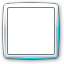
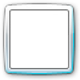
MeletonFX start menu: Teleport, 120 DPI account frame, Vista hover, fixed places column (#443)
Yukimi's review:
- Teleport (the planet switcher) replaces the planets: an All Programs entry, the right column
  under Workspaces, and the power menu where Vista has Switch User. The Planets folder is gone
  and no planet shows in the pinned / most used / Recent Items lists. Workspaces opens Data
  Management's workspace page.
- Opening the power arrow menu closed the start menu: click menus open on mousedown, their
  overlay takes the mouseup and the click lands on the page body. A click while a menu is open
  is no longer taken as a click outside.
- The account frame was Vista's 96 DPI size in a 120 DPI menu: now 80 px (picture 60 px),
  34 px over the top edge. A hovered place hides the frame and shows its own icon at the frame's
  size, as Vista does; left-pane rows leave the picture alone (checked in the VM).
- The places column is Vista's fixed 181 px again; names that do not fit get an ellipsis.
- Frosted was applied (the taskbar's wallpaper copy) but the fills let ~15 % through; Vista's
  top lets about half through (VM over a white window). Lighter tint and shade, live and frosted.

Changed region(s): [[0.0312, 0.0312, 0.9688, 0.9688], [0.25, 0.0312, 0.7188, 0.0625]]

diff --git a/public/scripts/comp/modalUtils.js b/public/scripts/comp/modalUtils.js
@@ -6156,8 +6156,10 @@ const startMenuLaunchables = [
     { launchId: 'explorer', icon: 'fas fa-folder-open', imageIcon: 'explorer.png', text: 'Cartograph', appMenu: true, action: () => { openExplorerApplet(); } },
     { launchId: 'remote-desktop', icon: 'fas fa-satellite-dish', imageIcon: 'remote_desktop.png', text: 'Remote Desktop', appMenu: true, action: () => { /* public/scripts/comp/desktop-apps/guacRemote.js */ openDesktopGuac(); } },
     { launchId: 'dovecote', icon: 'fas fa-envelope', imageIcon: 'dovecote.png', text: 'Dovecote', appMenu: true, action: () => { /* public/scripts/comp/desktop-apps/dovecote.js */ openDesktopDovecote(); } },
-    // Run-only launch (`planets`); the start menu entry is the Planets shell row below
-    { launchId: 'planet-switcher', icon: 'fas fa-planet-moon', imageIcon: 'planet.png', text: 'Planet Switcher', desktopOnly: true, appMenu: false, action: async () => { await openPlanetSwitcher(); } },
+    // Teleport (Yukimi, 2026-10-12): the planet switcher. All Programs, the places column under
+    // Workspaces, and the power menu where Vista has Switch User; the start menu lists no planets.
+    // Run: `planets`, `teleport`.
+    { launchId: 'planet-switcher', icon: 'fas fa-planet-moon', imageIcon: 'planet.png', text: 'Teleport', desktopOnly: true, appMenu: true, action: async () => { await openPlanetSwitcher(); } },
 ];
 
 /** Root start menu shell rows (folders + run). */
@@ -7054,6 +7056,7 @@ function getStartMenuPowerMenuItems() {
     const isAdmin = localStorage.getItem('userType') === 'admin';
     const desktop = isDesktopStartMenuEnvironment();
     const items = [
+        { id: 'teleport', text: 'Teleport', desktopOnly: true, action: () => runTeleportDirect() },
         { id: 'logout', text: 'Log Off', action: () => runLogoutDirect() },
         { id: 'lock', text: 'Lock', desktopOnly: true, action: () => runClientLockDirect() },
         { separator: true },
@@ -7064,6 +7067,12 @@ function getStartMenuPowerMenuItems() {
         { id: 'restart-dss', text: 'Restart Server', adminOnly: true, action: () => runRestartDssDirect() },
     ].filter((item) => !(item.desktopOnly && !desktop) && !(item.adminOnly && !isAdmin));
     return items.filter((item, i) => !item.separator || (i > 0 && i < items.length - 1 && !items[i - 1].separator));
+}
+
+/** Teleport (the planet switcher) from the power menu; the switcher closes the start menu itself. */
+function runTeleportDirect() {
+    const item = findStartMenuLaunchableById('planet-switcher');
+    if (item) launchStartMenuItem(item);
 }
 
 /** The arrow next to Lock: a click menu (contextMenu.js), rebuilt each time the menu is built. */
@@ -7095,6 +7104,9 @@ function handleStartMenuOutsideClick(e) {
     if (startMenu.contains(e.target)) return;
     if (e.target.closest('#taskbarStartBtn')) return;
     if (e.target.closest('.context-menu, .context-menu-overlay')) return;
+    // A click menu opened from inside (power arrow, Recent Items) opens on mousedown; its overlay
+    // takes the mouseup, so the click lands on the page body. Not a click outside.
+    if (typeof contextMenu !== 'undefined' && contextMenu && contextMenu.isOpen) return;
     closeStartMenu();
 }
 
@@ -7224,6 +7236,11 @@ function isStartMenuItemLaunchable(item) {
     return Boolean(item && isStartMenuEntryEnabled(item) && !(item.desktopOnly && !isDesktopStartMenuEnvironment()));
 }
 
+/** The start menu shows no planets (Teleport opens the switcher), even pinned or launched ones. */
+function isStartMenuListedItem(item) {
+    return isStartMenuItemLaunchable(item) && !isStartMenuPlanetLaunchId(item.launchId);
+}
+
 function getStartMenuFrequentItems() {
     const activity = readStartMenuActivity();
     const pinned = new Set(getStartMenuPinnedLaunchIds());
@@ -7233,7 +7250,7 @@ function getStartMenuFrequentItems() {
         if (out.length >= START_MENU_FREQUENT_LIMIT || seen.has(launchId) || pinned.has(launchId)) return;
         if (activity[launchId] && activity[launchId].hidden) return;
         const item = findStartMenuLaunchableById(launchId);
-        if (!isStartMenuItemLaunchable(item)) return;
+        if (!isStartMenuListedItem(item)) return;
         seen.add(launchId);
         out.push({ ...item, frequent: true });
     };
@@ -7251,7 +7268,7 @@ function getStartMenuRecentItems() {
         .filter((id) => (activity[id].t || 0) > 0)
         .sort((a, b) => activity[b].t - activity[a].t)
         .map((id) => findStartMenuLaunchableById(id))
-        .filter(isStartMenuItemLaunchable)
+        .filter(isStartMenuListedItem)
         .slice(0, START_MENU_RECENT_LIMIT);
 }
 
@@ -7278,13 +7295,7 @@ function getStartMenuAccessoriesItems() {
         .sort(byStartMenuLabel);
 }
 
-function getStartMenuPlanetsItems() {
-    const switcher = findStartMenuLaunchableById('planet-switcher');
-    return (switcher ? [switcher] : [])
-        .concat(buildPlanetsSubmenuItems().filter((item) => typeof item.action === 'function'));
-}
-
-/** Apps by name (or in the organizer's order), then the folders, like Vista's All Programs. */
+/** Apps by name (or in the organizer's order, Teleport among them), then the folders, like Vista's All Programs. */
 function getStartMenuProgramsTree() {
     const custom = Array.isArray(startMenuCustomLayout) && startMenuCustomLayout.length > 0;
     const entries = getOrganizedAllAppsMenuItems().map((item) => (item.isCustomFolder
@@ -7292,9 +7303,6 @@ function getStartMenuProgramsTree() {
         : item));
     if (!custom) entries.sort(byStartMenuLabel);
     entries.push({ folder: true, folderId: 'accessories', text: 'Accessories', children: getStartMenuAccessoriesItems() });
-    if (isDesktopStartMenuEnvironment()) {
-        entries.push({ folder: true, folderId: 'planets', text: 'Planets', children: getStartMenuPlanetsItems() });
-    }
     return entries.filter((entry) => !entry.folder || entry.children.length > 0);
 }
 
@@ -7318,7 +7326,7 @@ function toggleStartMenuFolder(folderId) {
 
 // ---- rows ----
 
-/** The 48 px picture a row puts in the account frame while hovered (Vista swaps it the same way). */
+/** The icon a hovered place shows instead of the account frame (Vista: the frame goes, the item's icon fills its spot). */
 function startMenuItemPictureUrl(item) {
     if (!item) return '';
     if (item.image) return item.image;
@@ -7390,7 +7398,6 @@ function createStartMenuListRow(item, kind, options = {}) {
         });
         if (item.launchId && kind !== 'result') attachStartMenuItemContextMenu(row, item);
     }
-    wireStartMenuTileHover(row, item);
     return row;
 }
 
@@ -7402,7 +7409,7 @@ function createStartMenuSeparator(className = 'start-menu-separator') {
 }
 
 function renderStartMenuHome(list) {
-    const pinned = getStartMenuPinnedItems();
+    const pinned = getStartMenuPinnedItems().filter(isStartMenuListedItem);
     pinned.forEach((item) => list.appendChild(createStartMenuListRow(item, 'pinned')));
     const frequent = getStartMenuFrequentItems();
     if (pinned.length && frequent.length) list.appendChild(createStartMenuSeparator());
@@ -7567,7 +7574,8 @@ function getStartMenuPlaces() {
         { id: 'cartograph', text: 'Cartograph', imageIcon: 'explorer.png', action: launch('explorer') },
         { id: 'gallery', text: 'Gallery', imageIcon: 'art.png', desktopOnly: true, action: launch('workspace') },
         { id: 'notion', text: 'Notion', imageIcon: 'notebook.png', action: launch('notebook') },
-        { id: 'workspaces', text: 'Workspaces', imageIcon: 'planet.png', desktopOnly: true, action: () => openPlanetSwitcher() },
+        { id: 'workspaces', text: 'Workspaces', imageIcon: 'planet.png', action: () => showWorkspaceManagementModal() },
+        { id: 'teleport', text: 'Teleport', imageIcon: 'planet.png', desktopOnly: true, action: launch('planet-switcher') },
         { separator: true },
         { id: 'recent', text: 'Recent Items', flyout: true },
         { id: 'network', text: 'Network and Server Center', image: '/static_images/melaton/net-globe.png', action: controlPanel('network') },
@@ -7622,6 +7630,7 @@ function renderStartMenuPlaces() {
         row.setAttribute('role', 'menuitem');
         row.tabIndex = -1;
         row.textContent = place.text;
+        row.title = place.text;
         if (place.flyout) {
             attachStartMenuRecentItemsMenu(row);
         } else {

diff --git a/public/css/desktop-shell.css b/public/css/desktop-shell.css
@@ -1463,6 +1463,11 @@ body.desktop-mode:has(#desktopTaskbar .taskbar-start-button.orb) .taskbar-window
 #startMenu.start-menu {
     --start-menu-h: min(635px, calc(100vh - var(--taskbar-height, 35px) - 48px));
     --start-menu-pane-w: 318px;
+    --start-menu-places-w: 181px;
+    /* Vista's glass lets about half the backdrop through at the top (measured over a white
+       window in the VM: #717376 there), darkening to near black at the power buttons */
+    --start-menu-shade: linear-gradient(to bottom, hsl(0 0% 0% / 18%) 0%, hsl(0 0% 0% / 55%) 38%, hsl(210 20% 2% / 88%) 72%, hsl(210 30% 2% / 95%) 100%);
+    --start-menu-tint: color-mix(in srgb, var(--glass-windows-bg, hsl(0 0% 20% / 75%)) 55%, transparent);
     --start-menu-pad: 7px;
     --start-menu-font: 'Segoe UI', Tahoma, var(--font-family, sans-serif);
     position: fixed;
@@ -1474,8 +1479,8 @@ body.desktop-mode:has(#desktopTaskbar .taskbar-start-button.orb) .taskbar-window
     max-width: 100vw;
     height: var(--start-menu-h);
     display: grid;
-    /* the places column is as wide as its longest name, like Vista's */
-    grid-template-columns: var(--start-menu-pane-w) minmax(181px, max-content);
+    /* Vista's fixed places column; a name that does not fit gets an ellipsis */
+    grid-template-columns: var(--start-menu-pane-w) var(--start-menu-places-w);
     grid-template-rows: minmax(0, 1fr) 30px;
     grid-template-areas:
         "pane places"
@@ -1486,9 +1491,9 @@ body.desktop-mode:has(#desktopTaskbar .taskbar-start-button.orb) .taskbar-window
     /* Vista: the frame glass darkening to near black toward the power buttons, the Aero
        streaks pinned to the screen (aero-glass.css) */
     background:
-        linear-gradient(to bottom, hsl(0 0% 0% / 42%) 0%, hsl(0 0% 0% / 78%) 38%, hsl(210 20% 2% / 94%) 72%, hsl(210 30% 2% / 97%) 100%),
+        var(--start-menu-shade),
         var(--aero-streaks, none),
-        linear-gradient(var(--glass-windows-bg, hsl(0 0% 20% / 75%)), var(--glass-windows-bg, hsl(0 0% 20% / 75%)));
+        linear-gradient(var(--start-menu-tint), var(--start-menu-tint));
     background-size:
         100% 100%,
         var(--aero-vw, 100vw) var(--aero-vh, 100vh),
@@ -1517,9 +1522,9 @@ html[data-glass="frosted"] #startMenu.start-menu {
     -webkit-backdrop-filter: none;
     backdrop-filter: none;
     background:
-        linear-gradient(to bottom, hsl(0 0% 0% / 42%) 0%, hsl(0 0% 0% / 78%) 38%, hsl(210 20% 2% / 94%) 72%, hsl(210 30% 2% / 97%) 100%),
+        var(--start-menu-shade),
         var(--aero-streaks, none),
-        linear-gradient(var(--glass-windows-bg, hsl(0 0% 20% / 75%)), var(--glass-windows-bg, hsl(0 0% 20% / 75%))),
+        linear-gradient(var(--start-menu-tint), var(--start-menu-tint)),
         var(--aero-wallpaper-light, var(--aero-wallpaper, none));
     background-size:
         100% 100%,
@@ -1781,7 +1786,8 @@ html[data-glass="basic"] #startMenu.start-menu {
     display: flex;
     flex-direction: column;
     min-height: 0;
-    padding: 39px 7px 0 6px;
+    /* the first row sits 15 px under the account frame (Vista, 12 px at 96 DPI) */
+    padding: 46px 7px 0 6px;
     overflow: hidden;
 }
 
@@ -1789,14 +1795,14 @@ html[data-glass="basic"] #startMenu.start-menu {
     position: relative;
     flex: none;
     box-sizing: border-box;
-    display: flex;
-    align-items: center;
+    display: block;
     height: 42px;
     margin: 1px 0;
     padding: 0 18px 0 10px;
     border: 1px solid transparent;
     border-radius: 3px;
     color: #fff;
+    line-height: 40px;
     white-space: nowrap;
     overflow: hidden;
     text-overflow: ellipsis;
@@ -1834,14 +1840,17 @@ html[data-glass="basic"] #startMenu.start-menu {
     background: linear-gradient(to bottom, hsl(0 0% 0% / 50%) 0 1px, hsl(0 0% 100% / 14%) 1px 2px);
 }
 
-/* ---- the account picture over the top edge ---- */
+/* ---- the account picture over the top edge ----
+   Vista's start menu frame (authui.dll 11201) at 120 DPI: 80 px, the picture 60 px in its
+   opening, overhanging the menu top by 34 px. A hovered place hides the frame and shows its
+   own icon at the frame's size instead (Vista; left-pane rows leave the picture alone). */
 
 .start-menu-user-tile {
     position: absolute;
-    top: -27px;
-    left: calc(var(--start-menu-pad) + var(--start-menu-pane-w) + (100% - var(--start-menu-pad) - var(--start-menu-pane-w) - 64px) / 2);
-    width: 64px;
-    height: 64px;
+    top: -34px;
+    left: calc(var(--start-menu-pad) + var(--start-menu-pane-w) + (100% - var(--start-menu-pad) - var(--start-menu-pane-w) - 80px) / 2);
+    width: 80px;
+    height: 80px;
     pointer-events: none;
 }
 
@@ -1849,23 +1858,27 @@ html[data-glass="basic"] #startMenu.start-menu {
     content: '';
     position: absolute;
     inset: 0;
-    background: url('/static_images/vista-start/user-frame.png') no-repeat;
+    background: url('/static_images/vista-start/user-frame.png') no-repeat 0 0 / 80px 80px;
+    transition: opacity 0.2s ease;
 }
 
 .start-menu-user-tile img {
     position: absolute;
-    left: 7px;
-    top: 7px;
-    width: 48px;
-    height: 48px;
     transition: opacity 0.2s ease;
 }
 
 .start-menu-user-tile-picture {
+    left: 9px;
+    top: 9px;
+    width: 60px;
+    height: 60px;
     object-fit: cover;
 }
 
 .start-menu-user-tile-item {
+    inset: 0;
+    width: 80px;
+    height: 80px;
     object-fit: contain;
     opacity: 0;
 }
@@ -1874,7 +1887,8 @@ html[data-glass="basic"] #startMenu.start-menu {
     opacity: 1;
 }
 
-.start-menu-user-tile.show-item .start-menu-user-tile-picture {
+.start-menu-user-tile.show-item .start-menu-user-tile-picture,
+.start-menu-user-tile.show-item::after {
     opacity: 0;
 }
 

diff --git a/scripts/test-vista-start-menu.js b/scripts/test-vista-start-menu.js
@@ -24,7 +24,7 @@ const read = (p) => fs.readFileSync(path.join(ROOT, p), 'utf8');
 
     // art: Vista's 120 DPI cells, three states stacked (rest, hover, pressed)
     const art = 'public/static_images/vista-start';
-    const sizes = { 'shutdown.png': [70, 90], 'lock.png': [70, 90], 'arrow.png': [28, 90], 'user-frame.png': [64, 64], 'folder-20.png': [20, 20], 'folder-40.png': [40, 40] };
+    const sizes = { 'shutdown.png': [70, 90], 'lock.png': [70, 90], 'arrow.png': [28, 90], 'user-frame.png': [80, 80], 'folder-20.png': [20, 20], 'folder-40.png': [40, 40] };
     for (const [file, [w, h]] of Object.entries(sizes)) {
         const meta = await sharp(path.join(ROOT, art, file)).metadata();
         assert.deepStrictEqual([meta.width, meta.height], [w, h], `${file} is ${w}x${h}`);
@@ -34,20 +34,22 @@ const read = (p) => fs.readFileSync(path.join(ROOT, p), 'utf8');
         assert.ok(fs.existsSync(path.join(ROOT, art, ref[1])), `CSS art ${ref[1]} exists`);
     }
     assert.ok(/grid-template-areas:\s*"pane places"\s*"search power"/.test(css), 'two columns over search + power');
-    assert.ok(css.includes('minmax(181px, max-content)'), 'places column sizes to its longest name');
+    assert.ok(css.includes('--start-menu-places-w: 181px') && /\.start-menu-place \{[^}]*text-overflow: ellipsis/.test(css), 'fixed places column, long names get an ellipsis');
     assert.ok(/html\[data-glass="frosted"\] #startMenu\.start-menu/.test(css) && /html\[data-glass="basic"\] #startMenu\.start-menu/.test(css), 'frosted and basic glass');
     assert.ok(!/\.start-menu-popout\b/.test(css), 'old pop-out styles removed');
 
     // behaviour hooks
     const js = read('public/scripts/comp/modalUtils.js');
     assert.ok(/folderId: 'accessories', text: 'Accessories'/.test(js), 'Toolbox is the Accessories folder in All Programs');
+    assert.ok(!/folderId: 'planets'/.test(js) && js.includes("text: 'Teleport', desktopOnly: true, appMenu: true"), 'no Planets folder; Teleport is an app');
+    assert.ok(js.includes('contextMenu && contextMenu.isOpen) return;'), 'opening a click menu does not close the start menu');
     assert.ok(/startMenuShellConfig\.find\(\(item\) => item\.launchId === 'run'\)/.test(js), 'Run lives in Accessories');
     assert.ok(/searchRunCommands\(query,/.test(js), 'Start Search uses the Run index');
     assert.ok(/execute: \(\) => \{\s*recordStartMenuLaunch\(item\.launchId\);/.test(js), 'Run launches count toward the history');
-    for (const text of ['Log Off', 'Lock', 'Restart', 'Shut Down', 'Restart Server']) {
+    for (const text of ['Teleport', 'Log Off', 'Lock', 'Restart', 'Shut Down', 'Restart Server']) {
         assert.ok(js.includes(`text: '${text}'`), `power menu has ${text}`);
     }
-    for (const text of ['Cartograph', 'Gallery', 'Notion', 'Workspaces', 'Recent Items', 'Network and Server Center', 'Control Panel', 'Remote Access', 'Help and Support']) {
+    for (const text of ['Cartograph', 'Gallery', 'Notion', 'Workspaces', 'Recent Items', 'Teleport', 'Network and Server Center', 'Control Panel', 'Remote Access', 'Help and Support']) {
         assert.ok(js.includes(`text: '${text}'`), `places column has ${text}`);
     }
     assert.ok(js.includes("text: 'Remove from this list'") && js.includes("text: 'Pin to Start Menu'"), 'Vista row menu wording');

diff --git a/scripts/build-vista-start-menu-art.js b/scripts/build-vista-start-menu-art.js
@@ -10,6 +10,7 @@
  *   arrow-glyph.png                            aero.msstyles IMAGE 713: the power menu arrow, 3 x 9 px
  *                                              states (rest, hover, pressed)
  *   user-frame.png                             authui.dll IMAGE 11201: the start menu account frame
+ *                                              (Vista ships it at 96 DPI only and scales it: 64 -> 80 px here)
  *
  * Each button becomes one sprite with its three states stacked (rest, hover, pressed), so CSS
  * moves background-position only. The arrow button Vista draws next to Lock is not in the strip;
@@ -110,7 +111,6 @@ async function main() {
 
     // the rest are used as they are
     const copies = {
-        'user-frame.png': 'user-frame.png',
         'usertile-kitten.png': 'usertile-kitten.png',
         'search-glyph.png': 'search-glyph.png',
         'programs-arrow-a.png': 'programs-arrow.png',
@@ -119,7 +119,9 @@ async function main() {
         'folder-40.png': 'folder-40.png'
     };
     for (const [from, to] of Object.entries(copies)) fs.copyFileSync(path.join(PARTS, from), path.join(OUT, to));
-    console.log(`wrote ${path.relative(ROOT, OUT)}: shutdown, lock, arrow sprites + ${Object.keys(copies).length} parts`);
+    // the account frame at 120 DPI (the menu's scale): 64 px x 1.25, the picture opening 48 -> 60 px
+    await sharp(path.join(PARTS, 'user-frame.png')).resize(80, 80, { kernel: 'lanczos3' }).png({ compressionLevel: 9 }).toFile(path.join(OUT, 'user-frame.png'));
+    console.log(`wrote ${path.relative(ROOT, OUT)}: shutdown, lock, arrow sprites + ${Object.keys(copies).length} parts + the 120 DPI account frame`);
 }
 
 main().catch((err) => {

diff --git a/docs/client-api/client-only-features.md b/docs/client-api/client-only-features.md
@@ -14,8 +14,8 @@ Custom Android/Linux clients may omit these or reimplement selectively.
 | Desktop windowing | `public/scripts/comp/focusOverlayManager.js`, workspace window positions | Positions synced via WS `workspace_update_window_positions` |
 | System tray / menu bar | `public/scripts/comp/systemTrayManager.js`, `mainMenuManager.js` | OS integration only on supported shells |
 | Keyboard shortcuts | `public/scripts/comp/keyboardShortcuts.js`, `modalKeyboardRegistry.js` | Local binding |
-| Start menu (Vista) | `public/scripts/comp/modalUtils.js` (`buildStartMenu`, Yozora #443), markup `#startMenu` in `public/app.html`, `public/css/desktop-shell.css`, art `public/static_images/vista-start/` (`scripts/build-vista-start-menu-art.js`, from Vista's explorer.exe / aero.msstyles / authui.dll pixels) | Vista's two columns at 120 DPI. Left, a white pane: pinned apps (server `desktop.startMenuPinned`), the most used apps (launch counts from the start menu, Start Search and Run in localStorage `startMenuActivity`, this browser only; "Remove from this list" hides one until launched again), All Programs swapping the pane in place (apps in the organizer's order or by name, then the Accessories folder = the old Toolbox plus Run, Planets, and organizer folders, opening in place; right-click All Programs = Organize Start Menu), and Start Search on the Run index (`searchRunCommands`; "See all results" opens Run with the query). Right, on the glass: the account picture (hovered items swap their icon in, like Vista), Cartograph, Gallery, Notion, Workspaces, Recent Items (click menu of the latest launches), Network and Server Center, Control Panel, Remote Access, Help and Support, then the power (shut down), lock and arrow buttons (Log Off, Lock, Restart, Shut Down, Leave Desktop Mode, Restart Server for admins). Typing goes to Start Search; arrows and Enter move through the pane; Esc clears, goes back, then closes. |
-| Planet switcher | `public/scripts/comp/planetSwitcher.js`, `public/css/planet-switcher.css` (lazy feature `planet_switcher`) | Ring of workspace bubbles over a canvas star field. Opening animates only `scale` + `opacity` (Web Animations API, transform-origin at the viewport centre) on the desktop layers and open windows, so window sizes never change; CSS animations underneath are paused via `body.planet-switcher-active`. Bubble slideshows come from WS `workspace_preview_samples`: a server-baked sprite strip per workspace (`/planet-sheets/`, one texture, slides by `background-position`), else client-baked canvas tiles from `createImageBitmap` sources, else the loaded gallery / wallpaper. Idle motion is compositor-only (per-planet WAAPI wobble + CSS sway); the star canvas runs at half resolution and 24fps while browsing. Bubbles are glass spheres (static pseudo-element shading) with a Flip 3D style mirrored reflection canvas repainted only on swaps; the desktop zoom-out tilts (rotateX) like Flip 3D; text never sits on a scaled layer. Loading completes before the zoom back: `workspaceSwitchComplete` + `workspaceChanged` events from `workspaceUtils.js`; the workspace progress modal is suppressed while the switcher is open. Esc / Cancel reverses the opening animation at ~0.5s. Only launched from the start menu (Workspaces in the right column, All Programs > Planets > Planet Switcher), Run `planets`, or `Ctrl+Alt+P`; direct `setActiveWorkspace` paths never use it. |
+| Start menu (Vista) | `public/scripts/comp/modalUtils.js` (`buildStartMenu`, Yozora #443), markup `#startMenu` in `public/app.html`, `public/css/desktop-shell.css`, art `public/static_images/vista-start/` (`scripts/build-vista-start-menu-art.js`, from Vista's explorer.exe / aero.msstyles / authui.dll pixels) | Vista's two columns at 120 DPI. Left, a white pane: pinned apps (server `desktop.startMenuPinned`), the most used apps (launch counts from the start menu, Start Search and Run in localStorage `startMenuActivity`, this browser only; "Remove from this list" hides one until launched again), All Programs swapping the pane in place (apps in the organizer's order or by name, Teleport among them, then the Accessories folder = the old Toolbox plus Run, and organizer folders, opening in place; no planets anywhere in the menu; right-click All Programs = Organize Start Menu), and Start Search on the Run index (`searchRunCommands`; "See all results" opens Run with the query). Right, on the glass, a fixed 181 px column (long names get an ellipsis): the account picture (Vista's frame at 120 DPI, 80 px; a hovered place hides it and shows its own icon at that size, like Vista), Cartograph, Gallery, Notion, Workspaces (Data Management's workspace page), Teleport (the planet switcher), Recent Items (click menu of the latest launches), Network and Server Center, Control Panel, Remote Access, Help and Support, then the power (shut down), lock and arrow buttons (Teleport where Vista has Switch User, Log Off, Lock, Restart, Shut Down, Leave Desktop Mode, Restart Server for admins; opening that menu leaves the start menu open). Typing goes to Start Search; arrows and Enter move through the pane; Esc clears, goes back, then closes. |
+| Planet switcher | `public/scripts/comp/planetSwitcher.js`, `public/css/planet-switcher.css` (lazy feature `planet_switcher`) | Ring of workspace bubbles over a canvas star field. Opening animates only `scale` + `opacity` (Web Animations API, transform-origin at the viewport centre) on the desktop layers and open windows, so window sizes never change; CSS animations underneath are paused via `body.planet-switcher-active`. Bubble slideshows come from WS `workspace_preview_samples`: a server-baked sprite strip per workspace (`/planet-sheets/`, one texture, slides by `background-position`), else client-baked canvas tiles from `createImageBitmap` sources, else the loaded gallery / wallpaper. Idle motion is compositor-only (per-planet WAAPI wobble + CSS sway); the star canvas runs at half resolution and 24fps while browsing. Bubbles are glass spheres (static pseudo-element shading) with a Flip 3D style mirrored reflection canvas repainted only on swaps; the desktop zoom-out tilts (rotateX) like Flip 3D; text never sits on a scaled layer. Loading completes before the zoom back: `workspaceSwitchComplete` + `workspaceChanged` events from `workspaceUtils.js`; the workspace progress modal is suppressed while the switcher is open. Esc / Cancel reverses the opening animation at ~0.5s. Only launched from the start menu's Teleport (All Programs, the right column under Workspaces, the power menu), Run `planets` / `teleport`, or `Ctrl+Alt+P`; direct `setActiveWorkspace` paths never use it. |
 | Vista program sounds | `public/scripts/comp/desktopSounds.js`, `modules/desktopSoundsStatic.js` | Desktop-only scheme player. On by default; Personalize → Sounds writes `localStorage desktop-sounds` (`off` to mute). Events: dialog / error / warning, logon, lock / unlock, shutdown (holds the black fade for the wav), Explorer + Grimoire / Alchemy navigate, planet enter / activate / switch, print-complete / print-error on generate / preset / reroll / expand / upscale / enhance / animate settle (cancel is silent), Balloon on tray popovers and glass toasts (hover tips silent; tray-promoted toasts do not double; Generation Complete / Failed / print receipts stay silent so they do not clash with print-complete), Ding on a key that did nothing (after the event; skipped when a listener preventDefaulted or a button/link accepted Enter/Space), Notify on new Dovecote mail, Recycle on image delete / scrap, Critical Stop on the mainframe exception window and a hard WS drop (1006 / 1011), UAC on the Client Update dialog. Files stay in `media/Windows Vista Sounds` and are served at `/sounds/vista/<file>` (whitelist; not in the SW precache; Microsoft WAVs are not committed). No min/max or ambient sounds yet. Test `npm run test:desktop-sounds`. Yozora #436, #437, #439. |
 | Aero glass engine | `public/scripts/comp/aeroGlass.js`, `public/css/aero-glass.css` | Frame glass modes on `html[data-glass]`: `frosted` (a downscaled, blurred copy of the wallpaper is built once per wallpaper on a canvas, published as `--aero-wallpaper`, and painted under every `.modal::before` at viewport cover size offset by the window origin `--aero-x` / `--aero-y`, so no window pays a per-frame `backdrop-filter`; dragging adds `--modal-drag-x` / `-y` in CSS), `live` (the `backdrop-filter` path, default until frosted is signed off), `basic` (performance mode: static tinted frames, keeps `html.disable-blur` for older rules). Maximized frames and the taskbar under a focused maximized window go Vista-dark in every mode. Personalize → Window Glass, the Liquid Glass menu toggle (`basic` ↔ last glass mode), `window.aeroGlass.setMode()`. Origin hooks: `setModalOffsetPx`, `settleModalPixelAnchor`, `openModal` in `modalUtils.js`; wallpaper hooks: `applyDesktopWallpaperInline` + `workspaceChanged`. Test `npm run test:aero-glass`. Yozora #400. |
 | Window geometry (percent positions) | `public/scripts/comp/windowGeometry.js`, `modalUtils.js` | Saved window entries carry `edges` (fractions of the work area) next to the legacy quadrant pair; restore prefers them so another resolution/DPI keeps relative place and size. Maximized windows and the fullscreen Studio editor never persist their rect; a saved rect covering the work area is treated as a remnant. Debounced viewport resize re-applies every open window's fractions (hidden tab / minimised browser / tiny viewport ignored); `data-window-fixed-size="true"` keeps the pixel size and re-centres. Workspace maximize always stays in desktop mode. See `docs/DESKTOP_POSITIONING_SYSTEM.md` (Window geometry). Test `npm run test:window-geometry`. Yozora #403. |
